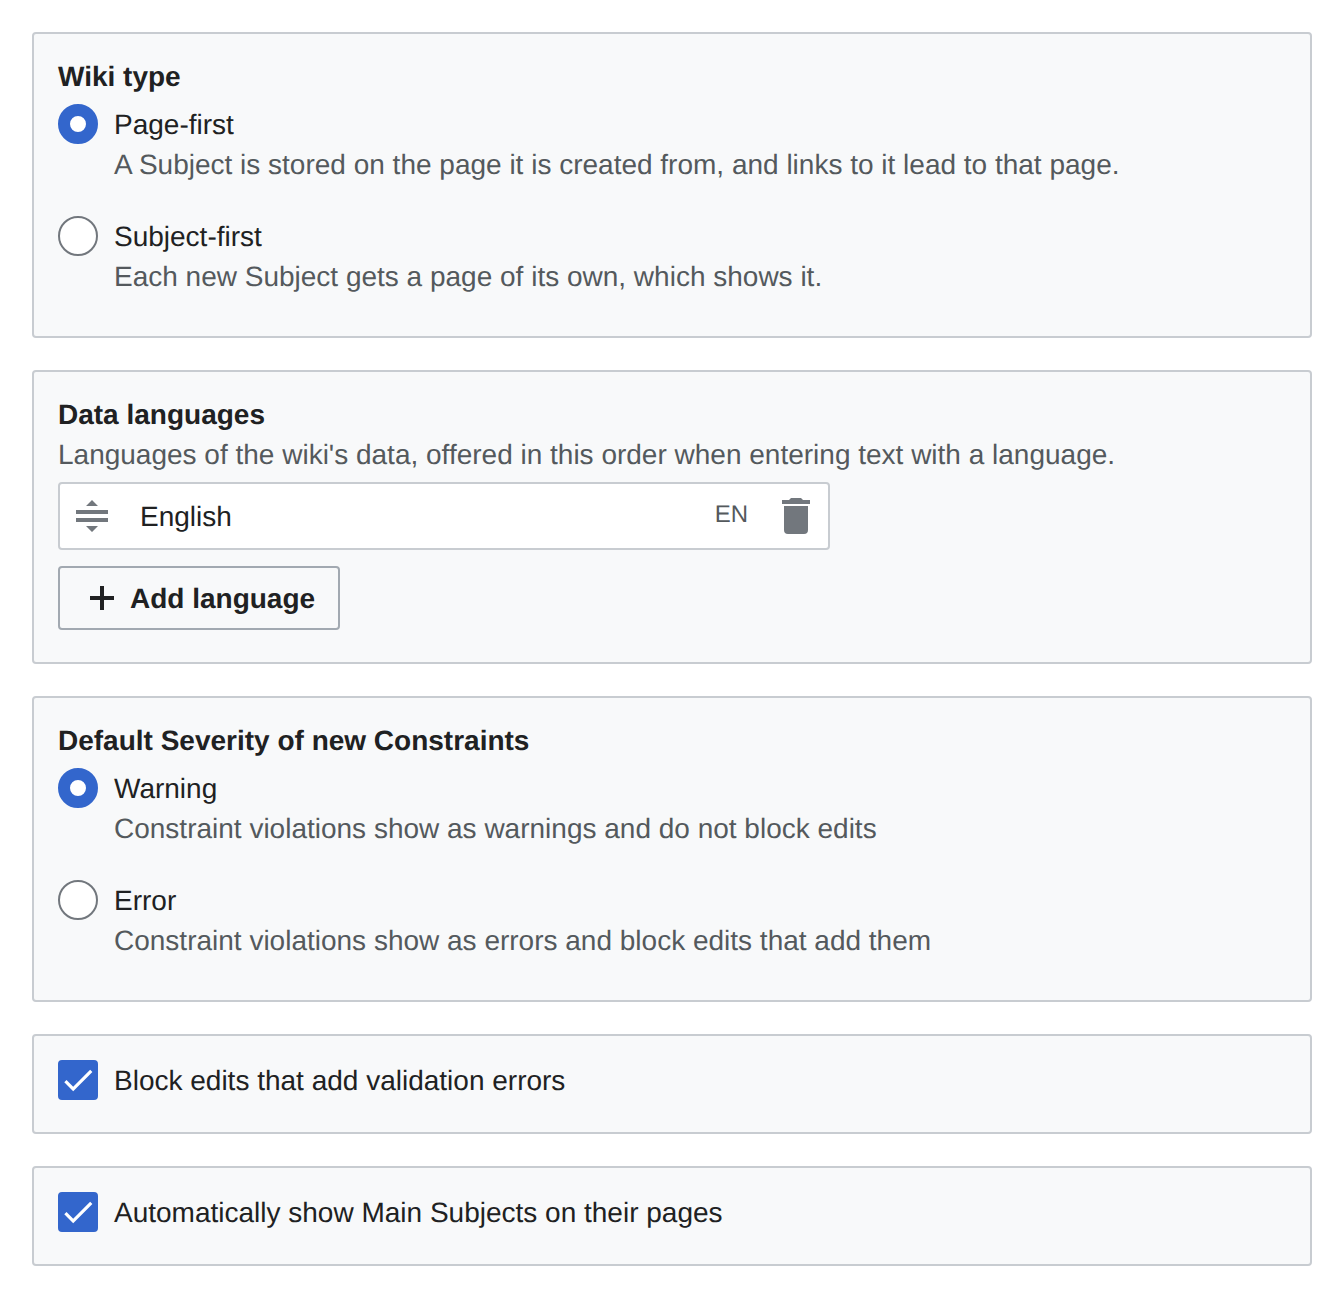
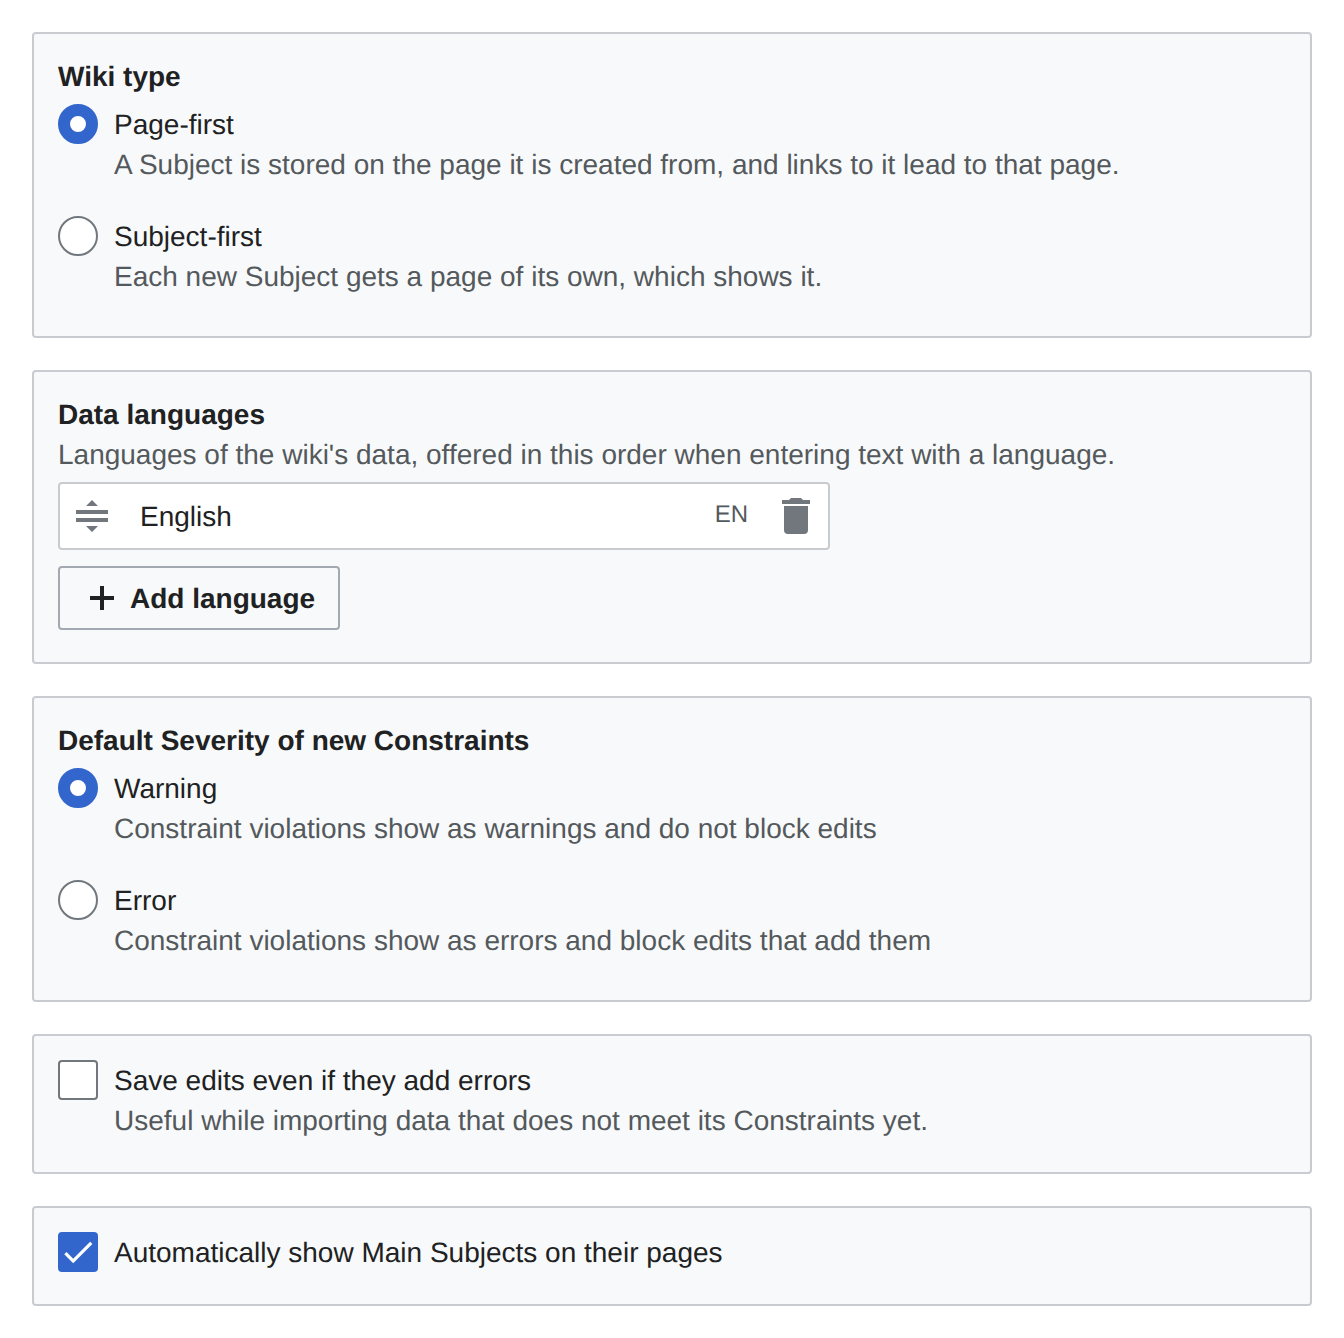
Show validation enforcement as "Save edits even if they add errors"
Follows-up to https://github.com/ProfessionalWiki/NeoWiki/pull/1953

On MediaWiki:NeoWiki, the checkbox "Block edits that add validation errors" becomes "Save edits even if they add errors", unticked by default, with the help line "Useful while importing data that does not meet its Constraints yet." Below "Default Severity of new Constraints", whose Error option already says errors block edits that add them, the old label repeated that option; the new one names the exception and when to use it. Ticking it stores `"enforceValidation": false`, so the setting's key and `$wgNeoWikiEnforceValidation` are unchanged.

The label has a new message key, so a translation of the old label cannot show the opposite meaning; the German one is removed.

Changed region(s): [[0.0312, 0.0308, 0.9688, 0.7396], [0.0312, 0.7704, 0.9688, 0.8629], [0.0312, 0.8937, 0.5312, 0.9553]]

diff --git a/resources/ext.neowiki/tests/components/ConfigEditor/ConfigEditor.spec.ts b/resources/ext.neowiki/tests/components/ConfigEditor/ConfigEditor.spec.ts
@@ -76,7 +76,8 @@ describe( 'ConfigEditor', () => {
 				'neowiki-config-setting-subject-first-subject-first-help': 'Each new Subject gets its own page.',
 				'neowiki-config-setting-data-languages': 'Data languages',
 				'neowiki-config-setting-data-languages-help': 'Languages of the wiki\'s data.',
-				'neowiki-config-setting-enforce-validation': 'Block edits that add validation errors',
+				'neowiki-config-setting-allow-edits-with-errors': 'Save edits even if they add errors',
+				'neowiki-config-setting-allow-edits-with-errors-help': 'Useful while importing.',
 				'neowiki-config-setting-initial-constraint-severity': 'Default Severity of new Constraints',
 				'neowiki-config-setting-initial-constraint-severity-warning-help': 'Edits that add Violations still save.',
 				'neowiki-config-setting-initial-constraint-severity-error-help': 'Edits that add Violations are blocked.',
@@ -182,10 +183,11 @@ describe( 'ConfigEditor', () => {
 		return JSON.parse( pageSaver.saves[ 0 ].source );
 	}
 
-	it( 'shows a setting with its label and help text', () => {
-		const editor = newEditor();
-
-		expect( settingLabelled( editor, 'Data languages' ).text() ).toContain( 'Languages of the wiki\'s data.' );
+	it.each( [
+		[ 'Data languages', 'Languages of the wiki\'s data.' ],
+		[ 'Save edits even if they add errors', 'Useful while importing.' ],
+	] )( 'shows a setting with its label and help text: %s', ( label, help ) => {
+		expect( settingLabelled( newEditor(), label ).text() ).toContain( help );
 	} );
 
 	it( 'offers the wiki types as a choice, each with its help text', () => {
@@ -222,7 +224,7 @@ describe( 'ConfigEditor', () => {
 	it.each( [
 		'Wiki type',
 		'Data languages',
-		'Block edits that add validation errors',
+		'Save edits even if they add errors',
 		'Default Severity of new Constraints',
 		'Show Main Subjects as infoboxes',
 	] )(
@@ -270,7 +272,7 @@ describe( 'ConfigEditor', () => {
 		expect( document.activeElement ).toBe( radio( editor, 'Error' ).element );
 	} );
 
-	it.each( [ 'Block edits', 'Show Main Subjects' ] )(
+	it.each( [ 'Save edits', 'Show Main Subjects' ] )(
 		'moves the focus to the setting it returns to its default: %s',
 		async ( label ) => {
 			const editor = newEditor( { enforceValidation: true, autoRenderMainSubject: false } );
@@ -328,14 +330,17 @@ describe( 'ConfigEditor', () => {
 		expect( savedJson( pageSaver ) ).toEqual( { subjectFirst: true, autoRenderMainSubject: false } );
 	} );
 
-	it( 'saves validation enforcement as set in its checkbox', async () => {
+	it.each( [
+		[ true, false ],
+		[ false, true ],
+	] )( 'saves validation enforcement as the opposite of allowing edits that add errors: ticked %s', async ( ticked, enforced ) => {
 		const pageSaver = new SpyPageSaver();
-		const editor = newEditor( {}, { pageSaver } );
+		const editor = newEditor( { enforceValidation: ticked }, { pageSaver } );
 
-		await checkbox( editor, 'Block edits' ).setValue( true );
+		await checkbox( editor, 'Save edits' ).setValue( ticked );
 		await save( editor );
 
-		expect( savedJson( pageSaver ) ).toEqual( { enforceValidation: true } );
+		expect( savedJson( pageSaver ) ).toEqual( { enforceValidation: enforced } );
 	} );
 
 	it( 'saves the Severity of new Constraints as chosen', async () => {
@@ -503,7 +508,7 @@ describe( 'ConfigEditor', () => {
 	it( 'shows the settings read-only to someone who may not change them', () => {
 		const editor = newEditor( { autoRenderMainSubject: false }, { canEdit: false } );
 
-		expect( checkbox( editor, 'Block edits' ).element.disabled ).toBe( true );
+		expect( checkbox( editor, 'Save edits' ).element.disabled ).toBe( true );
 		expect( radio( editor, 'Error' ).element.disabled ).toBe( true );
 		expect( checkbox( editor, 'Show Main Subjects' ).element.disabled ).toBe( true );
 		expect( editor.findAll( 'button' ) ).toHaveLength( 0 );

diff --git a/resources/ext.neowiki/src/components/ConfigEditor/ConfigEditor.vue b/resources/ext.neowiki/src/components/ConfigEditor/ConfigEditor.vue
@@ -117,17 +117,18 @@
 
 		<div class="ext-neowiki-config-editor__setting">
 			<CdxCheckbox
-				ref="enforcementCheckbox"
-				v-model="enforceValidation"
+				ref="allowErrorsCheckbox"
+				v-model="allowEditsWithErrors"
 				:disabled="!props.canEdit"
 			>
-				{{ enforcementLabel }}
+				{{ allowErrorsLabel }}
 				<template #description>
+					<span class="ext-neowiki-config-editor__help">{{ $i18n( 'neowiki-config-setting-allow-edits-with-errors-help' ).text() }}</span>
 					<button
 						v-if="canReset( 'enforceValidation' )"
 						type="button"
 						class="ext-neowiki-config-editor__reset"
-						:aria-label="$i18n( 'neowiki-config-editor-reset-label', enforcementLabel ).text()"
+						:aria-label="$i18n( 'neowiki-config-editor-reset-label', allowErrorsLabel ).text()"
 						@click="reset( 'enforceValidation' )"
 					>
 						{{ $i18n( 'neowiki-config-editor-reset' ).text() }}
@@ -219,7 +220,7 @@ const props = defineProps<ConfigEditorJsConfig & {
 
 const wikiTypeLabel = mw.message( 'neowiki-config-setting-subject-first' ).text();
 const dataLanguagesLabel = mw.message( 'neowiki-config-setting-data-languages' ).text();
-const enforcementLabel = mw.message( 'neowiki-config-setting-enforce-validation' ).text();
+const allowErrorsLabel = mw.message( 'neowiki-config-setting-allow-edits-with-errors' ).text();
 const initialSeverityLabel = mw.message( 'neowiki-config-setting-initial-constraint-severity' ).text();
 const infoboxLabel = mw.message( 'neowiki-config-setting-auto-render-main-subject' ).text();
 const saveLabel = mw.message( 'neowiki-config-editor-save' ).text();
@@ -228,6 +229,12 @@ const values = ref<PageValues>( { ...props.pageValues } );
 const subjectFirst = valueInEffect( 'subjectFirst' );
 const dataLanguages = valueInEffect( 'dataLanguages' );
 const enforceValidation = valueInEffect( 'enforceValidation' );
+const allowEditsWithErrors = computed( {
+	get: (): boolean => !enforceValidation.value,
+	set: ( allow: boolean ): void => {
+		enforceValidation.value = !allow;
+	}
+} );
 const initialConstraintSeverity = valueInEffect( 'initialConstraintSeverity' );
 const autoRenderMainSubject = valueInEffect( 'autoRenderMainSubject' );
 const source = computed( (): string => pageSource( values.value ) );
@@ -242,7 +249,7 @@ const changedMeanwhile = ref( false );
 
 const wikiTypeField = ref<InstanceType<typeof CdxField> | null>( null );
 const languageList = ref<InstanceType<typeof LanguageListInput> | null>( null );
-const enforcementCheckbox = ref<InstanceType<typeof CdxCheckbox> | null>( null );
+const allowErrorsCheckbox = ref<InstanceType<typeof CdxCheckbox> | null>( null );
 const initialSeverityField = ref<InstanceType<typeof CdxField> | null>( null );
 const infoboxCheckbox = ref<InstanceType<typeof CdxCheckbox> | null>( null );
 const saveButton = ref<InstanceType<typeof CdxButton> | null>( null );
@@ -270,7 +277,7 @@ function canReset( key: keyof ConfigValues ): boolean {
 const focusSetting: Record<keyof ConfigValues, () => void> = {
 	subjectFirst: () => inputOf( wikiTypeField.value, 'input:checked' )?.focus(),
 	dataLanguages: () => languageList.value?.focus(),
-	enforceValidation: () => inputOf( enforcementCheckbox.value, 'input' )?.focus(),
+	enforceValidation: () => inputOf( allowErrorsCheckbox.value, 'input' )?.focus(),
 	initialConstraintSeverity: () => inputOf( initialSeverityField.value, 'input:checked' )?.focus(),
 	autoRenderMainSubject: () => inputOf( infoboxCheckbox.value, 'input' )?.focus()
 };
